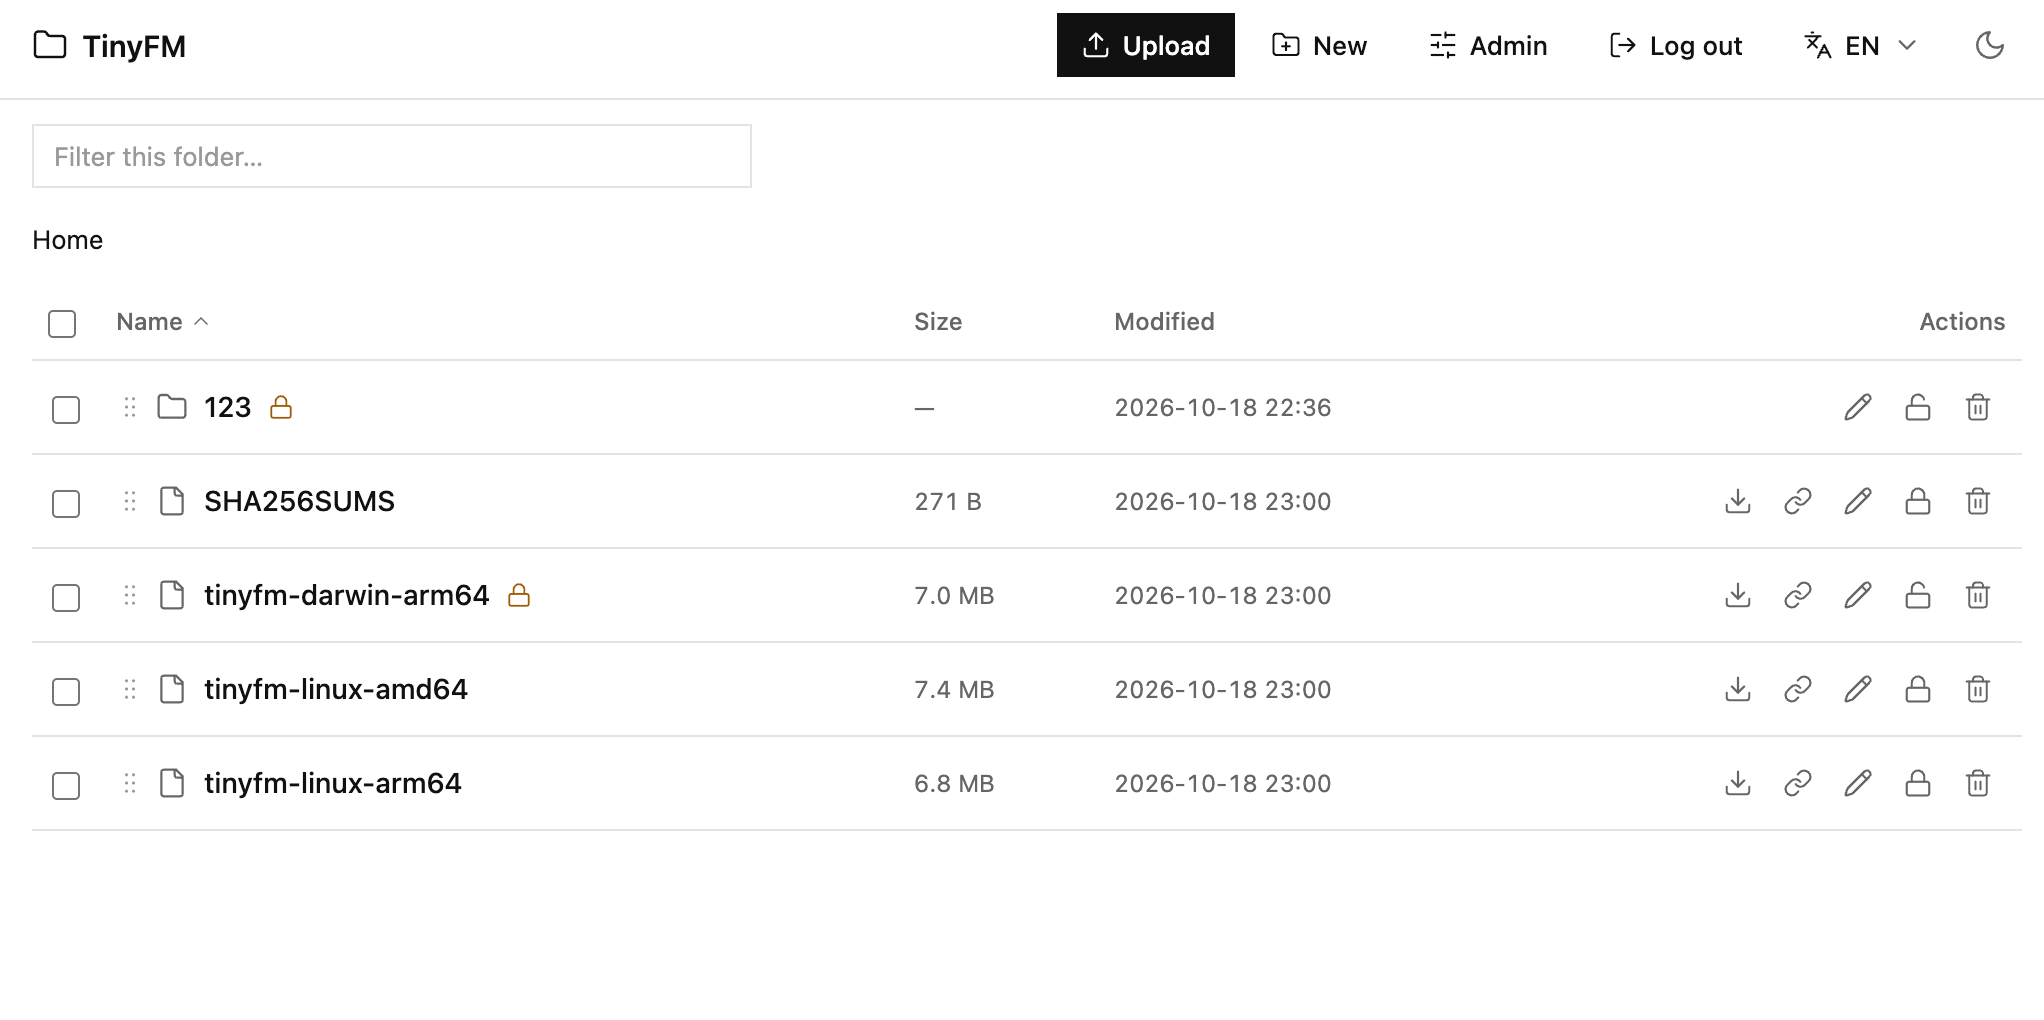
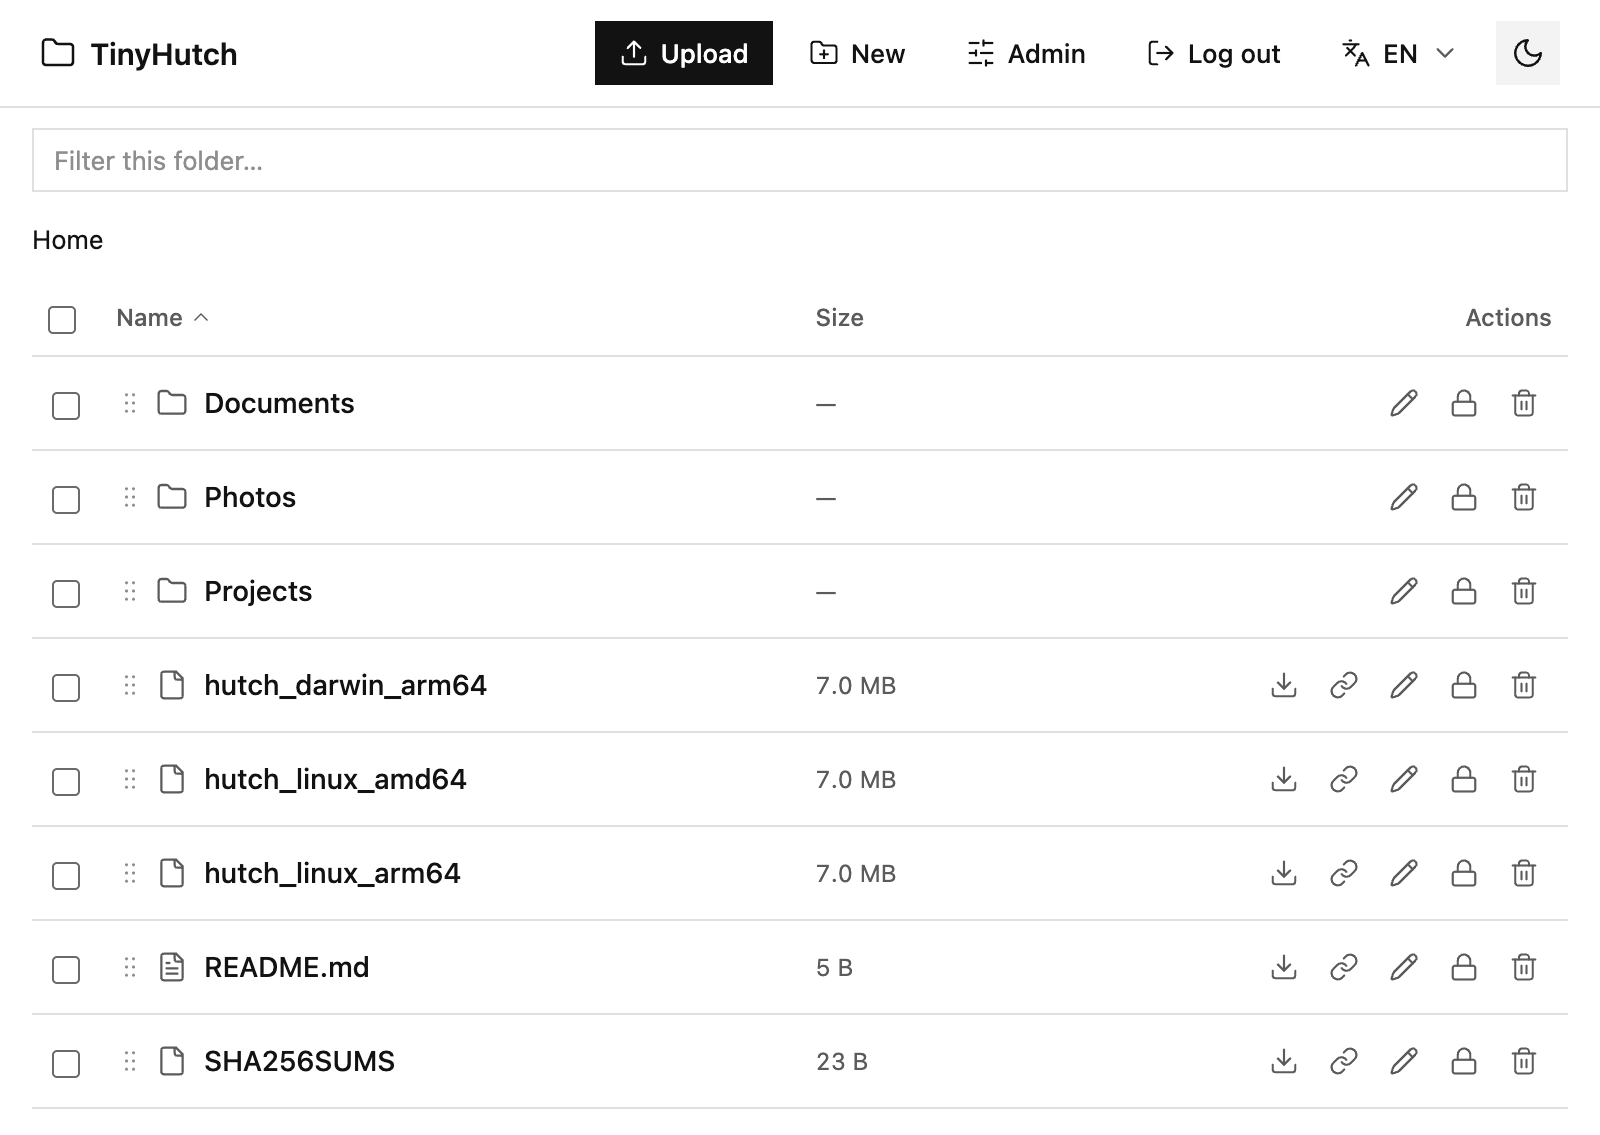
refactor!: rename TinyFM to TinyHutch
Rename the project, binary (hutch), module path, runtime files, cookies and localStorage keys. Add the MIT license, rewrite both READMEs with install/config/lock documentation, refresh the screenshot, and drop the version from release asset names so /releases/latest/download URLs stay stable.

diff --git a/src/static/app.js b/src/static/app.js
@@ -14,7 +14,7 @@ const state = {
   entries: [],
   admin: false,
   adminPasswordSet: true,
-  siteName: 'TinyFM',
+  siteName: 'TinyHutch',
   filter: '',
   sort: { key: 'name', dir: 1 },
   queue: [],
@@ -29,7 +29,7 @@ let uploadSeq = 0;
 /* ---------- api ---------- */
 
 async function api(path, opts = {}) {
-  const headers = Object.assign({ 'X-Requested-With': 'tinyfm' }, opts.headers || {});
+  const headers = Object.assign({ 'X-Requested-With': 'hutch' }, opts.headers || {});
   if (opts.body && typeof opts.body === 'string') headers['Content-Type'] = 'application/json';
   const res = await fetch(path, Object.assign({}, opts, { headers, credentials: 'same-origin' }));
   let data = null;
@@ -108,7 +108,7 @@ async function refreshSession() {
   const s = await api('/api/session');
   state.admin = !!s.admin;
   state.adminPasswordSet = !!s.admin_password_set;
-  state.siteName = s.site_name || 'TinyFM';
+  state.siteName = s.site_name || 'TinyHutch';
   $('#site-name').textContent = state.siteName;
   document.title = state.siteName;
   $('#btn-upload').classList.toggle('hidden', !state.admin);
@@ -953,7 +953,7 @@ function putFile(item, overwrite) {
     item.xhr = xhr;
     xhr.open('PUT', '/api/file?path=' + encodeURIComponent(item.dir) +
       '&name=' + encodeURIComponent(item.name) + '&overwrite=' + (overwrite ? 1 : 0));
-    xhr.setRequestHeader('X-Requested-With', 'tinyfm');
+    xhr.setRequestHeader('X-Requested-With', 'hutch');
     xhr.upload.onprogress = e => {
       if (e.lengthComputable) {
         item.progress = e.loaded / e.total;

diff --git a/src/static/i18n.js b/src/static/i18n.js
@@ -1,17 +1,17 @@
 'use strict';
 
 /*
- * TinyFM i18n: language selection and helpers.
+ * TinyHutch i18n: language selection and helpers.
  * All translations live in locales/<lang>.js so this file stays logic-only.
  */
 
-const I18N = window.TinyFMLocales || {};
+const I18N = window.HutchLocales || {};
 const I18N_LANGS = Object.keys(I18N);
 const I18N_BASE = 'zh';
 const HTML_LANG = { zh: 'zh-CN', en: 'en' };
 
 let currentLang = (() => {
-  const saved = localStorage.getItem('tinyfm-lang');
+  const saved = localStorage.getItem('hutch-lang');
   if (saved && I18N_LANGS.includes(saved)) return saved;
   const short = (navigator.language || '').toLowerCase().split('-')[0];
   if (I18N_LANGS.includes(short)) return short;
@@ -86,7 +86,7 @@ function applyI18n(root = document) {
 function setLang(lang) {
   if (!I18N_LANGS.includes(lang) || lang === currentLang) return;
   currentLang = lang;
-  localStorage.setItem('tinyfm-lang', lang);
+  localStorage.setItem('hutch-lang', lang);
   document.documentElement.lang = HTML_LANG[lang] || lang;
   applyI18n();
   if (langChangeHandler) langChangeHandler();

diff --git a/src/static/admin.js b/src/static/admin.js
@@ -13,7 +13,7 @@ let adminPasswordSet = false;
 let pwMode = null;
 
 async function api(path, opts = {}) {
-  const headers = Object.assign({ 'X-Requested-With': 'tinyfm' }, opts.headers || {});
+  const headers = Object.assign({ 'X-Requested-With': 'hutch' }, opts.headers || {});
   if (opts.body && typeof opts.body === 'string') headers['Content-Type'] = 'application/json';
   const res = await fetch(path, Object.assign({}, opts, { headers, credentials: 'same-origin' }));
   let data = null;
@@ -326,7 +326,7 @@ document.addEventListener('DOMContentLoaded', async () => {
   $('#btn-theme').addEventListener('click', () => {
     const next = document.documentElement.dataset.theme === 'dark' ? 'light' : 'dark';
     document.documentElement.dataset.theme = next;
-    localStorage.setItem('tinyfm-theme', next);
+    localStorage.setItem('hutch-theme', next);
   });
 
   $('#pw-add').addEventListener('click', () => openPasswordForm('add'));

diff --git a/src/static/admin.html b/src/static/admin.html
@@ -3,7 +3,7 @@
 <head>
   <meta charset="utf-8">
   <meta name="viewport" content="width=device-width, initial-scale=1">
-  <title data-i18n="admin.page_title">TinyFM 后台</title>
+  <title data-i18n="admin.page_title">TinyHutch 后台</title>
   <link rel="icon" type="image/svg+xml" href="/static/favicon.svg">
   <link rel="stylesheet" href="/static/style.css">
 </head>
@@ -11,7 +11,7 @@
   <header class="topbar">
     <a class="brand" href="/">
       <span class="brand-mark"><span data-icon="folder"></span></span>
-      <span>TinyFM</span>
+      <span>TinyHutch</span>
     </a>
     <div class="actions">
       <a class="btn" href="/"><span data-icon="arrow-left"></span><span data-i18n="common.back">返回文件列表</span></a>

diff --git a/src/static/theme.js b/src/static/theme.js
@@ -10,7 +10,7 @@ function updateThemeIcon() {
 }
 
 function applyTheme() {
-  const saved = localStorage.getItem('tinyfm-theme');
+  const saved = localStorage.getItem('hutch-theme');
   const dark = saved ? saved === 'dark' : window.matchMedia('(prefers-color-scheme: dark)').matches;
   document.documentElement.dataset.theme = dark ? 'dark' : 'light';
   updateThemeIcon();
@@ -19,6 +19,6 @@ function applyTheme() {
 function toggleTheme() {
   const next = document.documentElement.dataset.theme === 'dark' ? 'light' : 'dark';
   document.documentElement.dataset.theme = next;
-  localStorage.setItem('tinyfm-theme', next);
+  localStorage.setItem('hutch-theme', next);
   updateThemeIcon();
 }

diff --git a/src/static/locales/zh.js b/src/static/locales/zh.js
@@ -1,8 +1,8 @@
 'use strict';
 
-window.TinyFMLocales = window.TinyFMLocales || {};
+window.HutchLocales = window.HutchLocales || {};
 
-window.TinyFMLocales.zh = {
+window.HutchLocales.zh = {
   "meta.name": "中文",
   "meta.short": "中文",
   "nav.home": "首页",
@@ -121,7 +121,7 @@ window.TinyFMLocales.zh = {
   "api.rate_limited": "尝试过多，请稍后再试",
   "api.internal": "服务端错误",
   "api.config_busy": "配置保存冲突",
-  "admin.page_title": "TinyFM 后台",
+  "admin.page_title": "TinyHutch 后台",
   "admin.heading": "后台管理",
   "admin.logout": "退出登录",
   "admin.password_heading": "管理密码",

diff --git a/src/static/index.html b/src/static/index.html
@@ -3,7 +3,7 @@
 <head>
   <meta charset="utf-8">
   <meta name="viewport" content="width=device-width, initial-scale=1">
-  <title>TinyFM</title>
+  <title>TinyHutch</title>
   <link rel="icon" type="image/svg+xml" href="/static/favicon.svg">
   <link rel="stylesheet" href="/static/style.css">
 </head>
@@ -11,7 +11,7 @@
   <header class="topbar">
     <a class="brand" href="/">
       <span class="brand-mark"><span data-icon="folder"></span></span>
-      <span id="site-name">TinyFM</span>
+      <span id="site-name">TinyHutch</span>
     </a>
     <div class="actions">
       <button id="btn-upload" class="btn primary hidden" type="button">

diff --git a/src/static/locales/en.js b/src/static/locales/en.js
@@ -1,8 +1,8 @@
 'use strict';
 
-window.TinyFMLocales = window.TinyFMLocales || {};
+window.HutchLocales = window.HutchLocales || {};
 
-window.TinyFMLocales.en = {
+window.HutchLocales.en = {
   "meta.name": "English",
   "meta.short": "EN",
   "nav.home": "Home",
@@ -121,7 +121,7 @@ window.TinyFMLocales.en = {
   "api.rate_limited": "Too many attempts, try again later",
   "api.internal": "Server error",
   "api.config_busy": "Config save conflict",
-  "admin.page_title": "TinyFM Admin",
+  "admin.page_title": "TinyHutch Admin",
   "admin.heading": "Admin",
   "admin.logout": "Log out",
   "admin.password_heading": "Admin password",

diff --git a/src/static/icons.js b/src/static/icons.js
@@ -2,7 +2,7 @@
 
 /*
  * Icon set: Lucide (https://lucide.dev), ISC License.
- * Paths are inlined so TinyFM stays a single binary with no external requests.
+ * Paths are inlined so TinyHutch stays a single binary with no external requests.
  */
 
 const ICONS = {

diff --git a/src/handlers_test.go b/src/handlers_test.go
@@ -39,7 +39,7 @@ func newTestEnv(t *testing.T, rules []Rule) *testEnv {
 
 	configPath := filepath.Join(dir, "config.json")
 	cfg := &Config{
-		SiteName:       "TinyFM",
+		SiteName:       "TinyHutch",
 		AdminPassword:  "adminpw",
 		Rules:          rules,
 		SessionHours:   12,
@@ -49,7 +49,7 @@ func newTestEnv(t *testing.T, rules []Rule) *testEnv {
 	if err := saveConfig(configPath, cfg); err != nil {
 		t.Fatal(err)
 	}
-	secretPath := filepath.Join(dir, ".tinyfm.secret")
+	secretPath := filepath.Join(dir, ".hutch.secret")
 	secret := []byte("0123456789abcdef0123456789abcdef")
 	if err := os.WriteFile(secretPath, secret, 0o600); err != nil {
 		t.Fatal(err)
@@ -106,7 +106,7 @@ func (e *testEnv) do(c *http.Client, method, path, body string) (*http.Response,
 	if err != nil {
 		e.t.Fatal(err)
 	}
-	req.Header.Set("X-Requested-With", "tinyfm")
+	req.Header.Set("X-Requested-With", "hutch")
 	if strings.HasPrefix(body, "{") || strings.HasPrefix(body, "[") {
 		req.Header.Set("Content-Type", "application/json")
 	}
@@ -613,7 +613,7 @@ func TestDeleteUndo(t *testing.T) {
 	if resp, _ := e.anon("GET", "/api/download?path=/hello.txt", ""); resp.StatusCode != 404 {
 		t.Fatal("file still exists after delete")
 	}
-	if resp, _ := e.anon("GET", "/api/download?path=/.tinyfm-trash", ""); resp.StatusCode != 404 {
+	if resp, _ := e.anon("GET", "/api/download?path=/.hutch-trash", ""); resp.StatusCode != 404 {
 		t.Fatal("trash is web-accessible")
 	}
 
@@ -659,11 +659,11 @@ func TestDeleteBatchAndUndoConflict(t *testing.T) {
 	}
 
 	// Trash must stay hidden even with show_hidden enabled.
-	if resp, body := e.do(e.client, "PUT", "/api/admin/settings", `{"site_name":"TinyFM","session_hours":12,"max_upload_mb":10,"show_hidden":true}`); resp.StatusCode != 200 {
+	if resp, body := e.do(e.client, "PUT", "/api/admin/settings", `{"site_name":"TinyHutch","session_hours":12,"max_upload_mb":10,"show_hidden":true}`); resp.StatusCode != 200 {
 		t.Fatalf("settings: %d %s", resp.StatusCode, body)
 	}
 	resp, body = e.do(e.client, "GET", "/api/list?path=/", "")
-	if strings.Contains(string(body), ".tinyfm-trash") {
+	if strings.Contains(string(body), ".hutch-trash") {
 		t.Fatalf("trash listed: %s", body)
 	}
 }
@@ -809,7 +809,7 @@ func TestRulePasswordChangeRelocks(t *testing.T) {
 
 func TestProtectedAndHiddenFiles(t *testing.T) {
 	e := newTestEnv(t, nil)
-	for _, p := range []string{"/config.json", "/config.json.bak", "/.tinyfm.secret"} {
+	for _, p := range []string{"/config.json", "/config.json.bak", "/.hutch.secret"} {
 		if resp, _ := e.anon("GET", "/api/download?path="+p, ""); resp.StatusCode != 404 {
 			t.Errorf("%s: %d, want 404", p, resp.StatusCode)
 		}
@@ -821,7 +821,7 @@ func TestProtectedAndHiddenFiles(t *testing.T) {
 
 	e.loginAdmin()
 	resp, body := e.do(e.client, "PUT", "/api/admin/settings",
-		`{"site_name":"TinyFM","session_hours":12,"max_upload_mb":10,"show_hidden":true}`)
+		`{"site_name":"TinyHutch","session_hours":12,"max_upload_mb":10,"show_hidden":true}`)
 	if resp.StatusCode != 200 {
 		t.Fatalf("settings: %d %s", resp.StatusCode, body)
 	}
@@ -829,7 +829,7 @@ func TestProtectedAndHiddenFiles(t *testing.T) {
 	if !strings.Contains(string(body), ".env") {
 		t.Fatalf("hidden file should be listed when enabled: %s", body)
 	}
-	if strings.Contains(string(body), `"config.json"`) || strings.Contains(string(body), ".tinyfm.secret") {
+	if strings.Contains(string(body), `"config.json"`) || strings.Contains(string(body), ".hutch.secret") {
 		t.Fatalf("protected files must never be listed: %s", body)
 	}
 }
@@ -875,7 +875,7 @@ func TestUploadLimit(t *testing.T) {
 	e := newTestEnv(t, nil)
 	e.loginAdmin()
 	resp, body := e.do(e.client, "PUT", "/api/admin/settings",
-		`{"site_name":"TinyFM","session_hours":12,"max_upload_mb":1,"show_hidden":false}`)
+		`{"site_name":"TinyHutch","session_hours":12,"max_upload_mb":1,"show_hidden":false}`)
 	if resp.StatusCode != 200 {
 		t.Fatalf("settings: %d %s", resp.StatusCode, body)
 	}

diff --git a/src/config_test.go b/src/config_test.go
@@ -22,7 +22,7 @@ func TestConfigCreateAndReload(t *testing.T) {
 	if cfg.AdminPassword != "" {
 		t.Fatalf("admin_password should default to empty, got %q", cfg.AdminPassword)
 	}
-	if cfg.SiteName != "TinyFM" || cfg.SessionHours != defaultSessionHours || cfg.MaxUploadMB != defaultMaxUploadMB {
+	if cfg.SiteName != "TinyHutch" || cfg.SessionHours != defaultSessionHours || cfg.MaxUploadMB != defaultMaxUploadMB {
 		t.Fatalf("defaults not applied: %+v", cfg)
 	}
 	if cfg.ListenHost != "127.0.0.1" || cfg.ListenPort != 8080 || cfg.LogLevel != "info" || cfg.InsecureCookie || cfg.TrustProxy {
@@ -39,7 +39,7 @@ func TestConfigCreateAndReload(t *testing.T) {
 	if err != nil {
 		t.Fatal(err)
 	}
-	if !strings.Contains(string(raw), `"site_name": "TinyFM"`) {
+	if !strings.Contains(string(raw), `"site_name": "TinyHutch"`) {
 		t.Fatalf("config is not JSON:\n%s", raw)
 	}
 
@@ -65,7 +65,7 @@ func TestConfigUnknownField(t *testing.T) {
 
 func TestConfigMissingFields(t *testing.T) {
 	full := map[string]any{
-		"site_name":       "TinyFM",
+		"site_name":       "TinyHutch",
 		"listen_host":     "127.0.0.1",
 		"listen_port":     8080,
 		"admin_password":  "pw",
@@ -209,7 +209,7 @@ func mustRead(t *testing.T, p string) []byte {
 
 func TestEnsureSecret(t *testing.T) {
 	dir := t.TempDir()
-	path := filepath.Join(dir, ".tinyfm.secret")
+	path := filepath.Join(dir, ".hutch.secret")
 	s1, err := ensureSecret(path)
 	if err != nil {
 		t.Fatal(err)

diff --git a/src/main.go b/src/main.go
@@ -17,7 +17,7 @@ import (
 )
 
 var (
-	version = "0.1.1"
+	version = "0.2.0"
 	commit  = "none"
 	date    = "unknown"
 )
@@ -97,7 +97,7 @@ func parseArgs(args []string, cwd string) (rootDir string, err error) {
 	case 1:
 		return resolveDir(args[0], cwd)
 	default:
-		return "", errors.New("参数过多，用法: tinyfm [选项] [目录]")
+		return "", errors.New("参数过多，用法: hutch [选项] [目录]")
 	}
 }
 
@@ -140,7 +140,7 @@ func main() {
 	flag.CommandLine.Parse(reorderArgs(os.Args[1:]))
 
 	if *showVersion {
-		fmt.Printf("tinyfm %s (commit %s, built %s)\n", version, commit, date)
+		fmt.Printf("hutch %s (commit %s, built %s)\n", version, commit, date)
 		return
 	}
 
@@ -166,7 +166,7 @@ func main() {
 
 	configPath := resolveConfigPath(rootDir, *configFlag, cwd)
 
-	secretPath := filepath.Join(rootDir, ".tinyfm.secret")
+	secretPath := filepath.Join(rootDir, ".hutch.secret")
 	secret, err := ensureSecret(secretPath)
 	if err != nil {
 		slog.Error("读取或生成会话密钥失败", "err", err)
@@ -214,7 +214,7 @@ func main() {
 		os.Exit(1)
 	}
 
-	fmt.Printf("TinyFM %s 已启动  →  %s\n", version, accessURL(ln.Addr()))
+	fmt.Printf("TinyHutch %s 已启动  →  %s\n", version, accessURL(ln.Addr()))
 	slog.Debug("启动参数", "version", version, "root", rootDir, "config", configPath, "listen", cfg.ListenAddr())
 
 	if created {
